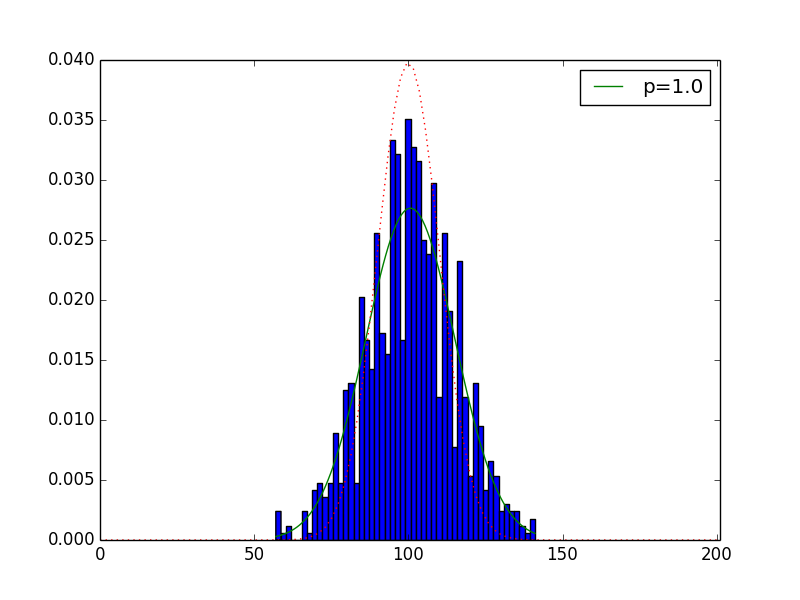
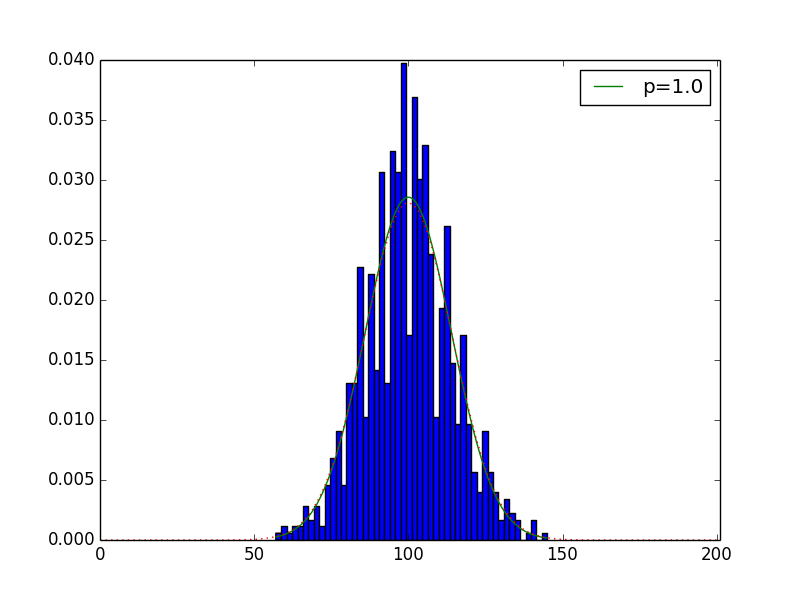
Adding an extra file called run.py to run the percolation model and plot the variances against probability.

Changed region(s): [[0.3438, 0.09, 0.6875, 0.9]]

diff --git a/Percolation_model.py b/Percolation_model.py
@@ -11,7 +11,7 @@ class RWMatrix:
 		self.p=p # void/available probability
 		self.q=q # bias probability of heading downwards (0<=q<=0.25)
 		mat = np.random.choice([0, 1], size=(L,W), p=[1-p,p])
-		success = 0. #keep track of successful trials
+		#success = 0. #keep track of successful trials
 		countarray=[]
 		xarray=[]
 		yarray=[]
@@ -41,8 +41,8 @@ class RWMatrix:
 					y = (y+dy)%W #left and right sides are connect; perodic
 				if x == 0 or x == L-1: #when it hits the surface or the bottom
 					flag = 1 #terminates the run
-					if mat[x,y] == 1:
-						success+=1
+					#if mat[x,y] == 1:
+						#success+=1
 			countarray.append(count)
 			xarray.append(x)
 			yarray.append(y)
@@ -74,18 +74,27 @@ class RWMatrix:
 		x = np.linspace(min(self.xarray), max(self.xarray),100)
 		plt.plot(x,mlab.normpdf(x,mean,sigma),label='p=%s'%self.p)
 		plt.legend()
+		print 'At p = %s, mean is %s, variance is %s' %(self.p, mean, variance)
 
 	def plotGTheo(self): # produce a theoretical prediction of the gaussian curve	
-		tmean = (2*self.q-0.5)*self.L*2 + self.L/2
-		tvar = 4*self.q*(0.5-self.q)*self.L*2
+		tmean = (2*self.q*2-1)*self.L + self.L/2
+		tvar = 4*self.q*2*(1-self.q*2)*self.L
 		tsig = np.sqrt(tvar)
 		x = np.linspace(0, self.L,100)
 		plt.plot(x,mlab.normpdf(x,tmean,tsig),label='p=%s'%self.p, ls=':')
+		plt.legend()
 
-
-for p in np.arange(0, 1.1, 0.2):
-	a = RWMatrix(201,50,p,0.25)
-	a.plotXarrayHist()
-	a.plotGFit()
-	a.plotGTheo()
-plt.show()
+#vararray=[]
+#parray=[]
+#for p in np.arange(0.4, 1.001, 0.02):
+	#a = RWMatrix(501,50,p,0.25)
+	#parray.append(p)
+	#v = np.var(a.xarray)
+	#print v
+	#vararray.append(v)
+	#a.plotXarrayHist()
+	#a.plotGFit()
+	#a.plotGTheo()
+#plt.show()
+#print parray
+#print vararray

diff --git a/run.py b/run.py
@@ -1,0 +1,12 @@
+import Percolation_model as pm
+import matplotlib.pyplot as plt
+import numpy as np
+plt.ion()
+plt.show()
+
+for p in np.arange(0.4,1,0.02):
+	a = pm.RWMatrix(501,50,p,0.25)
+	v = np.var(a.xarray)
+	print v
+	plt.scatter(p, v)
+	plt.draw()
